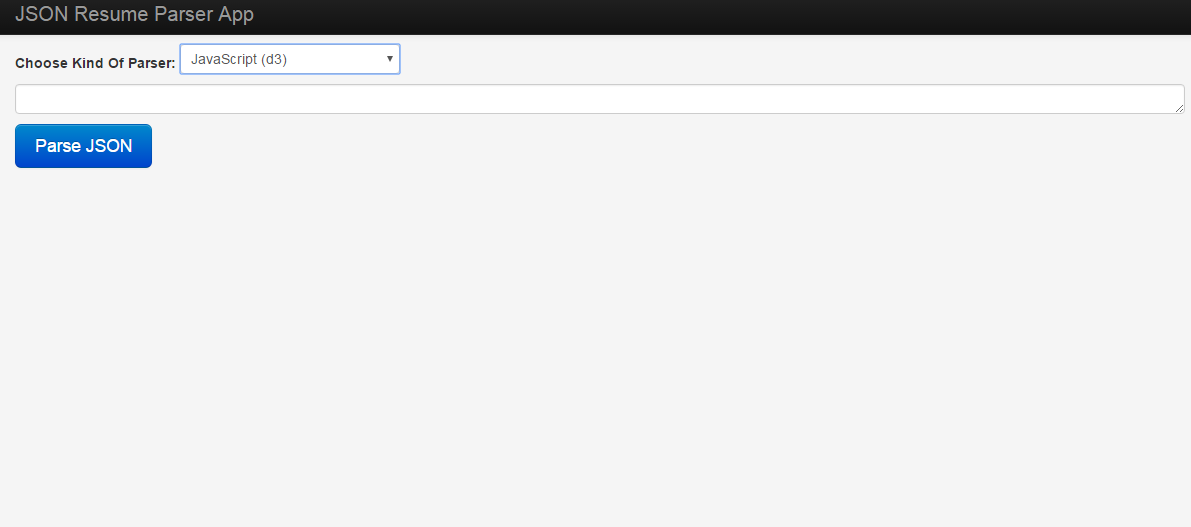
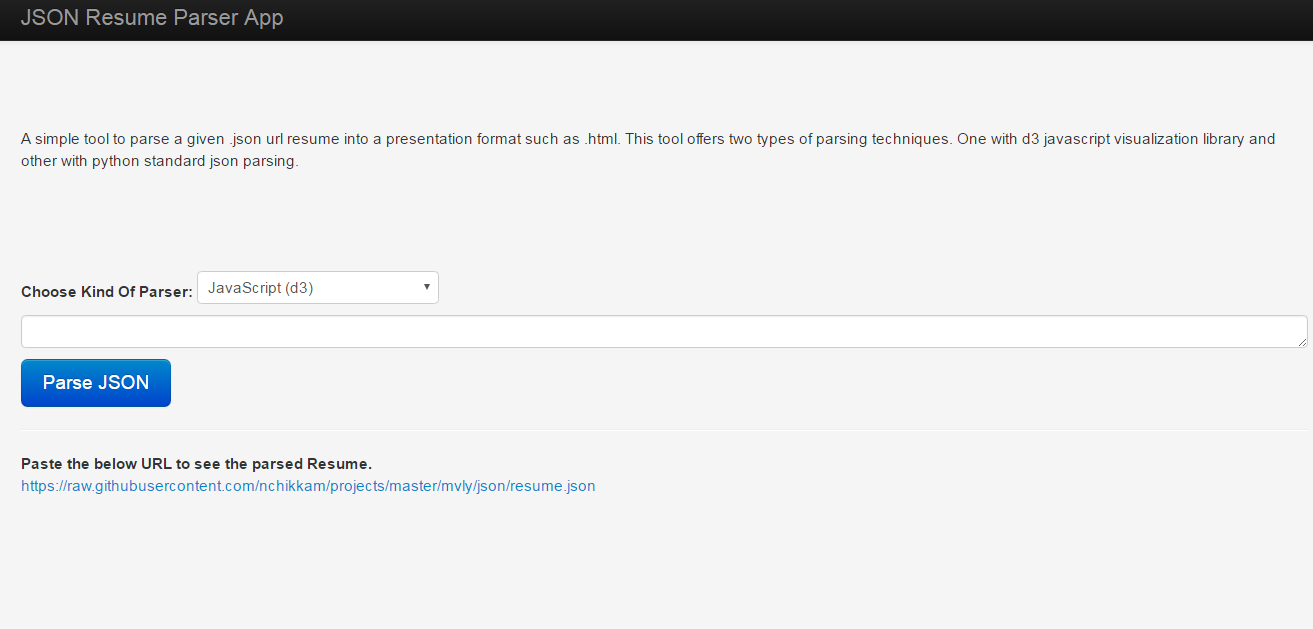
Changes: templates enhancements for the tools about descriptions.

diff --git a/mvly/templates/jsonparserapp.html b/mvly/templates/jsonparserapp.html
@@ -20,17 +20,32 @@
     </div>
     <div class="container">
 
-    <form action="/jsonparser" method="post">
-        <b>Choose Kind Of Parser:<b>
-        <select name="parsertype">
-            <option value="javascript(d3)">JavaScript (d3)</option>
-            <option value="Python">Python</option>
-        </select>
-        <br>
-        <div><textarea name="jsonUrl" class="input-block-level" rows="1"></textarea></div>
-        <div><input type="submit" class="btn btn-large btn-primary" value="Parse JSON"></div>
-    </form>
+        <br><br><br><br>
+        <div class="brand" >
+        A simple tool to parse a given .json url resume into a presentation format such as .html. This tool offers
+        two types of parsing techniques. One with d3 javascript visualization library and other with python standard
+        json parsing.
+            </div>
+        <br><br><br><br>
 
+        <form action="/jsonparser" method="post">
+            <b>Choose Kind Of Parser:</b>
+            <select name="parsertype">
+                <option value="javascript(d3)">JavaScript (d3)</option>
+                <option value="Python">Python</option>
+            </select>
+            <br>
+            <div><textarea name="jsonUrl" class="input-block-level" rows="1"></textarea></div>
+            <div><input type="submit" class="btn btn-large btn-primary" value="Parse JSON"></div>
+        </form>
+
+        <hr>
+        <div>
+              <b>Paste the below URL to see the parsed Resume.</b><br>
+            <a href="https://raw.githubusercontent.com/nchikkam/projects/master/mvly/json/resume.json">
+            https://raw.githubusercontent.com/nchikkam/projects/master/mvly/json/resume.json</a>
+        </div>
     </div>
+
   </body>
 </html>

diff --git a/mvly/templates/urlshortener.html b/mvly/templates/urlshortener.html
@@ -21,6 +21,18 @@
     </div>
     <div class="container">
 
+      <br><br><br><br>
+        <div class="brand" >
+        URL shortener is a simple web application to tinify the given long URL into a short form so as to make its usage
+        convenient to the regular users. This app uses a custom database to keep the original URL and creates a short
+        form of its version.
+
+        More Information: Internally the app uses base62 encoding format to shorten the URL(s). The symbol set which is
+        called Sigma in Mathemetical system includes characters: [0-9, A-Z and a-z]. This set of all these symbols makes
+        its size 62, which is nothing but the base 62 symbols set.
+        </div>
+        <br><br><br><br>
+
       <form action="/shorten" method="post">
         <div><textarea name="url" class="input-block-level" rows="1"></textarea></div>
         <div><input type="submit" class="btn btn-large btn-primary" value="shorten"></div>
